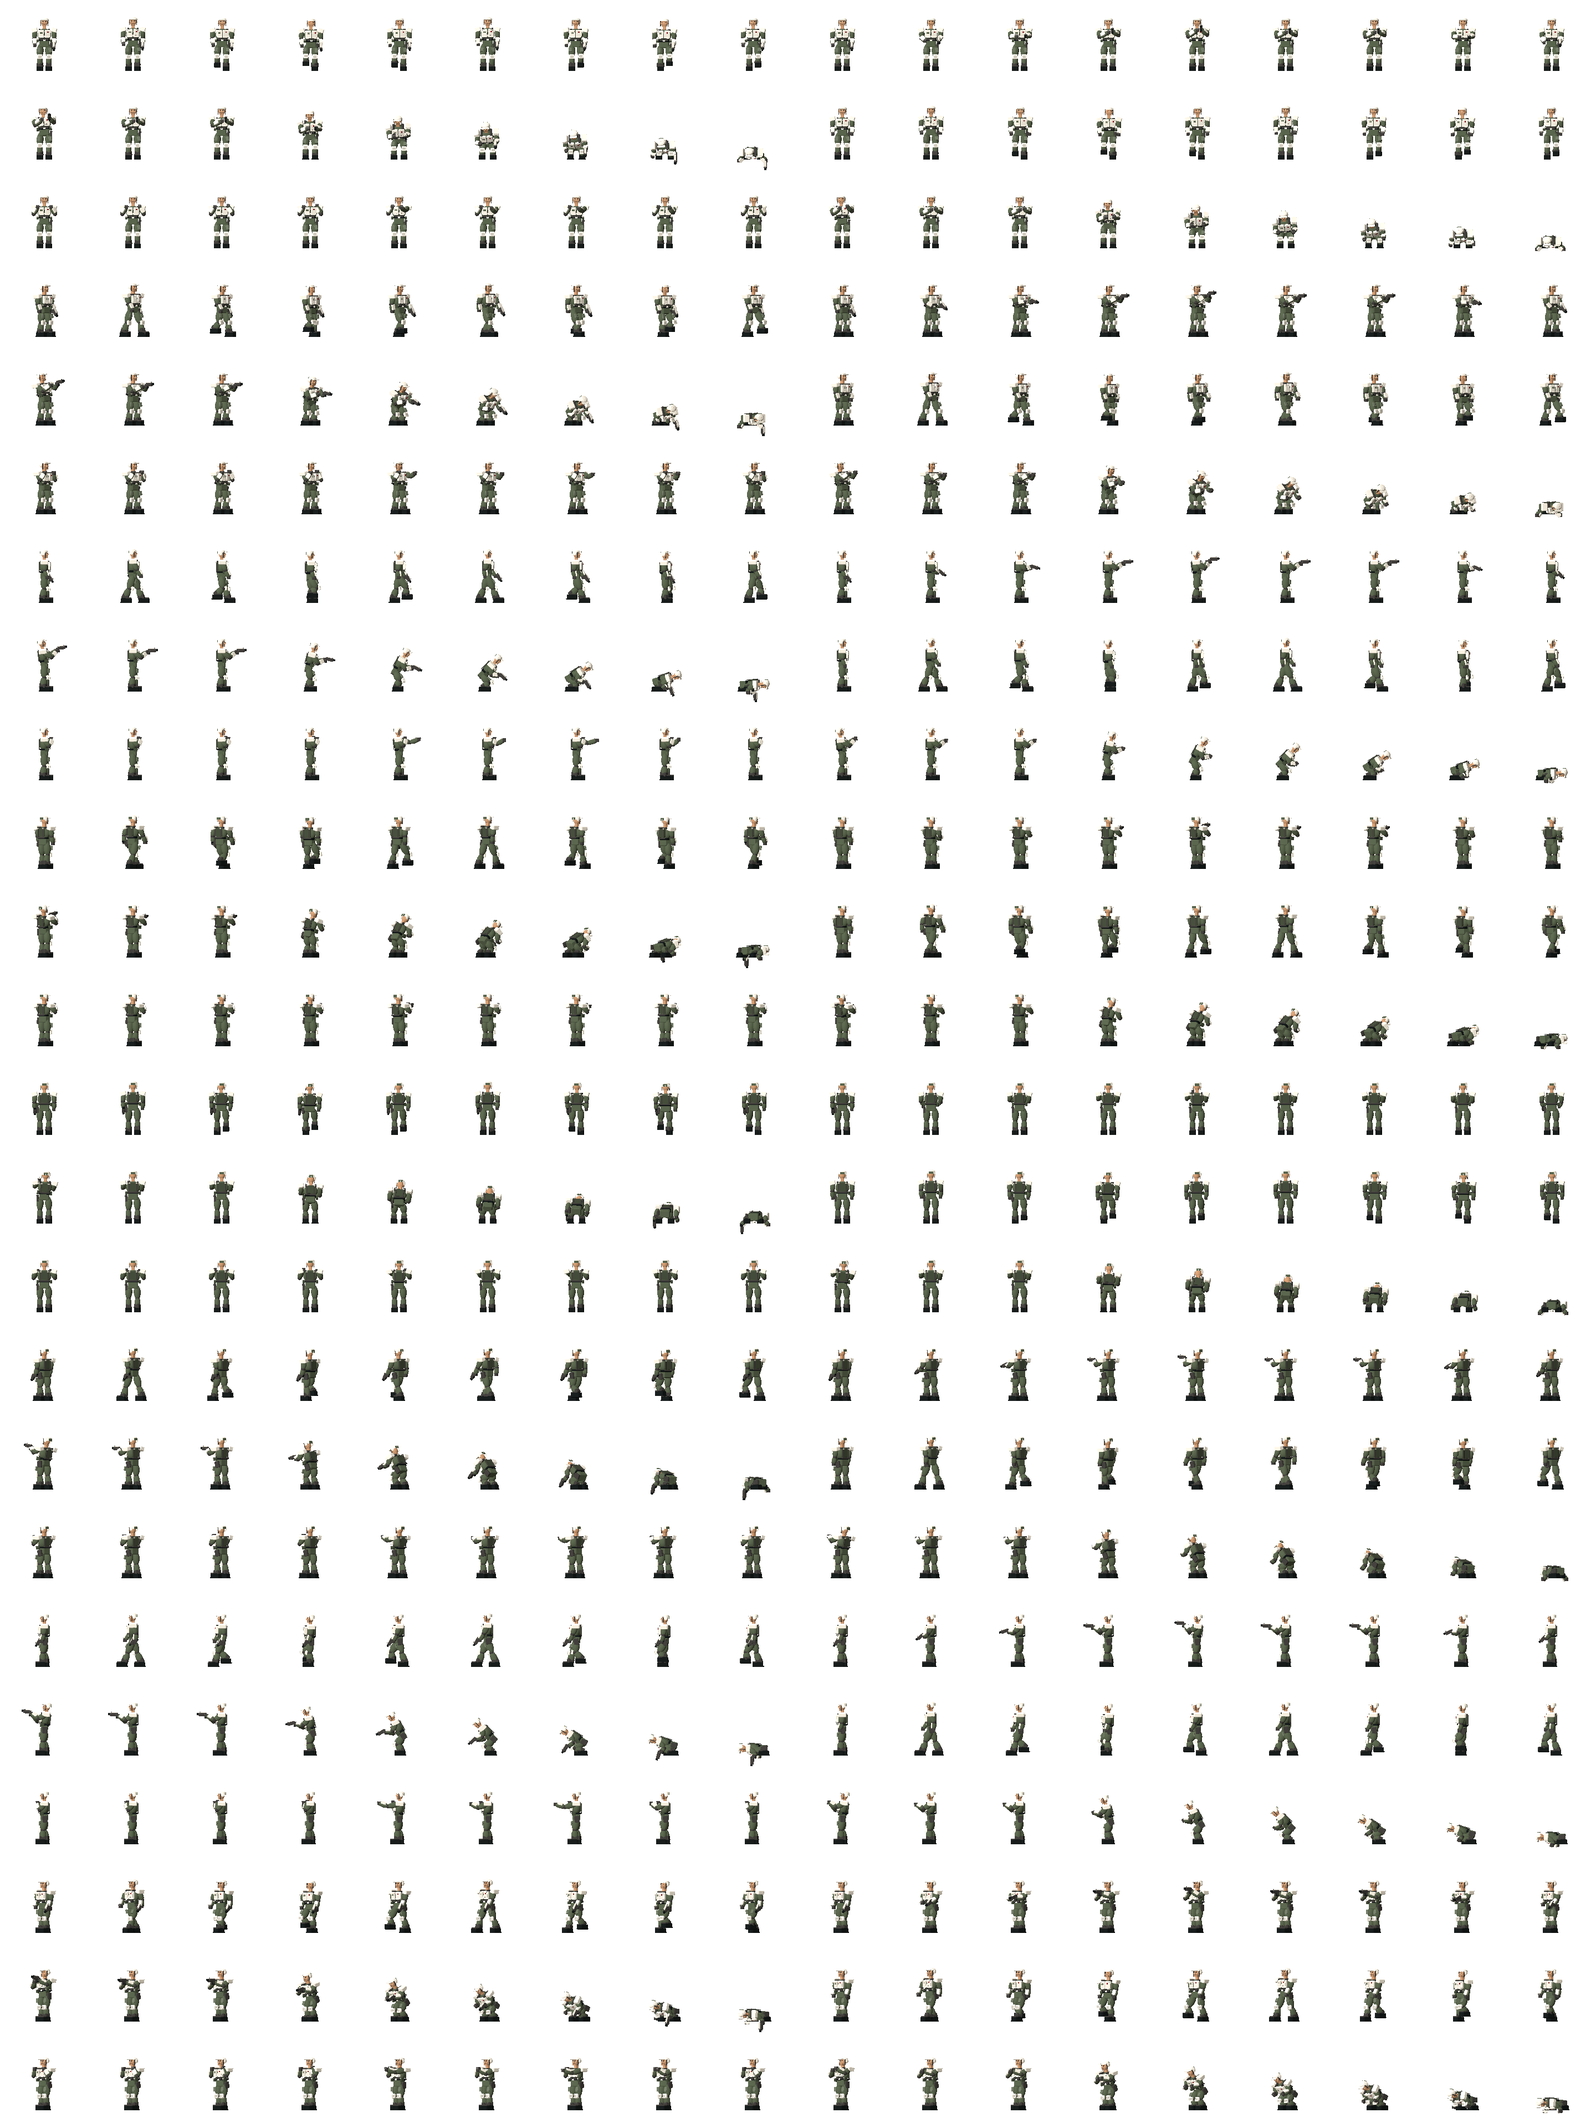
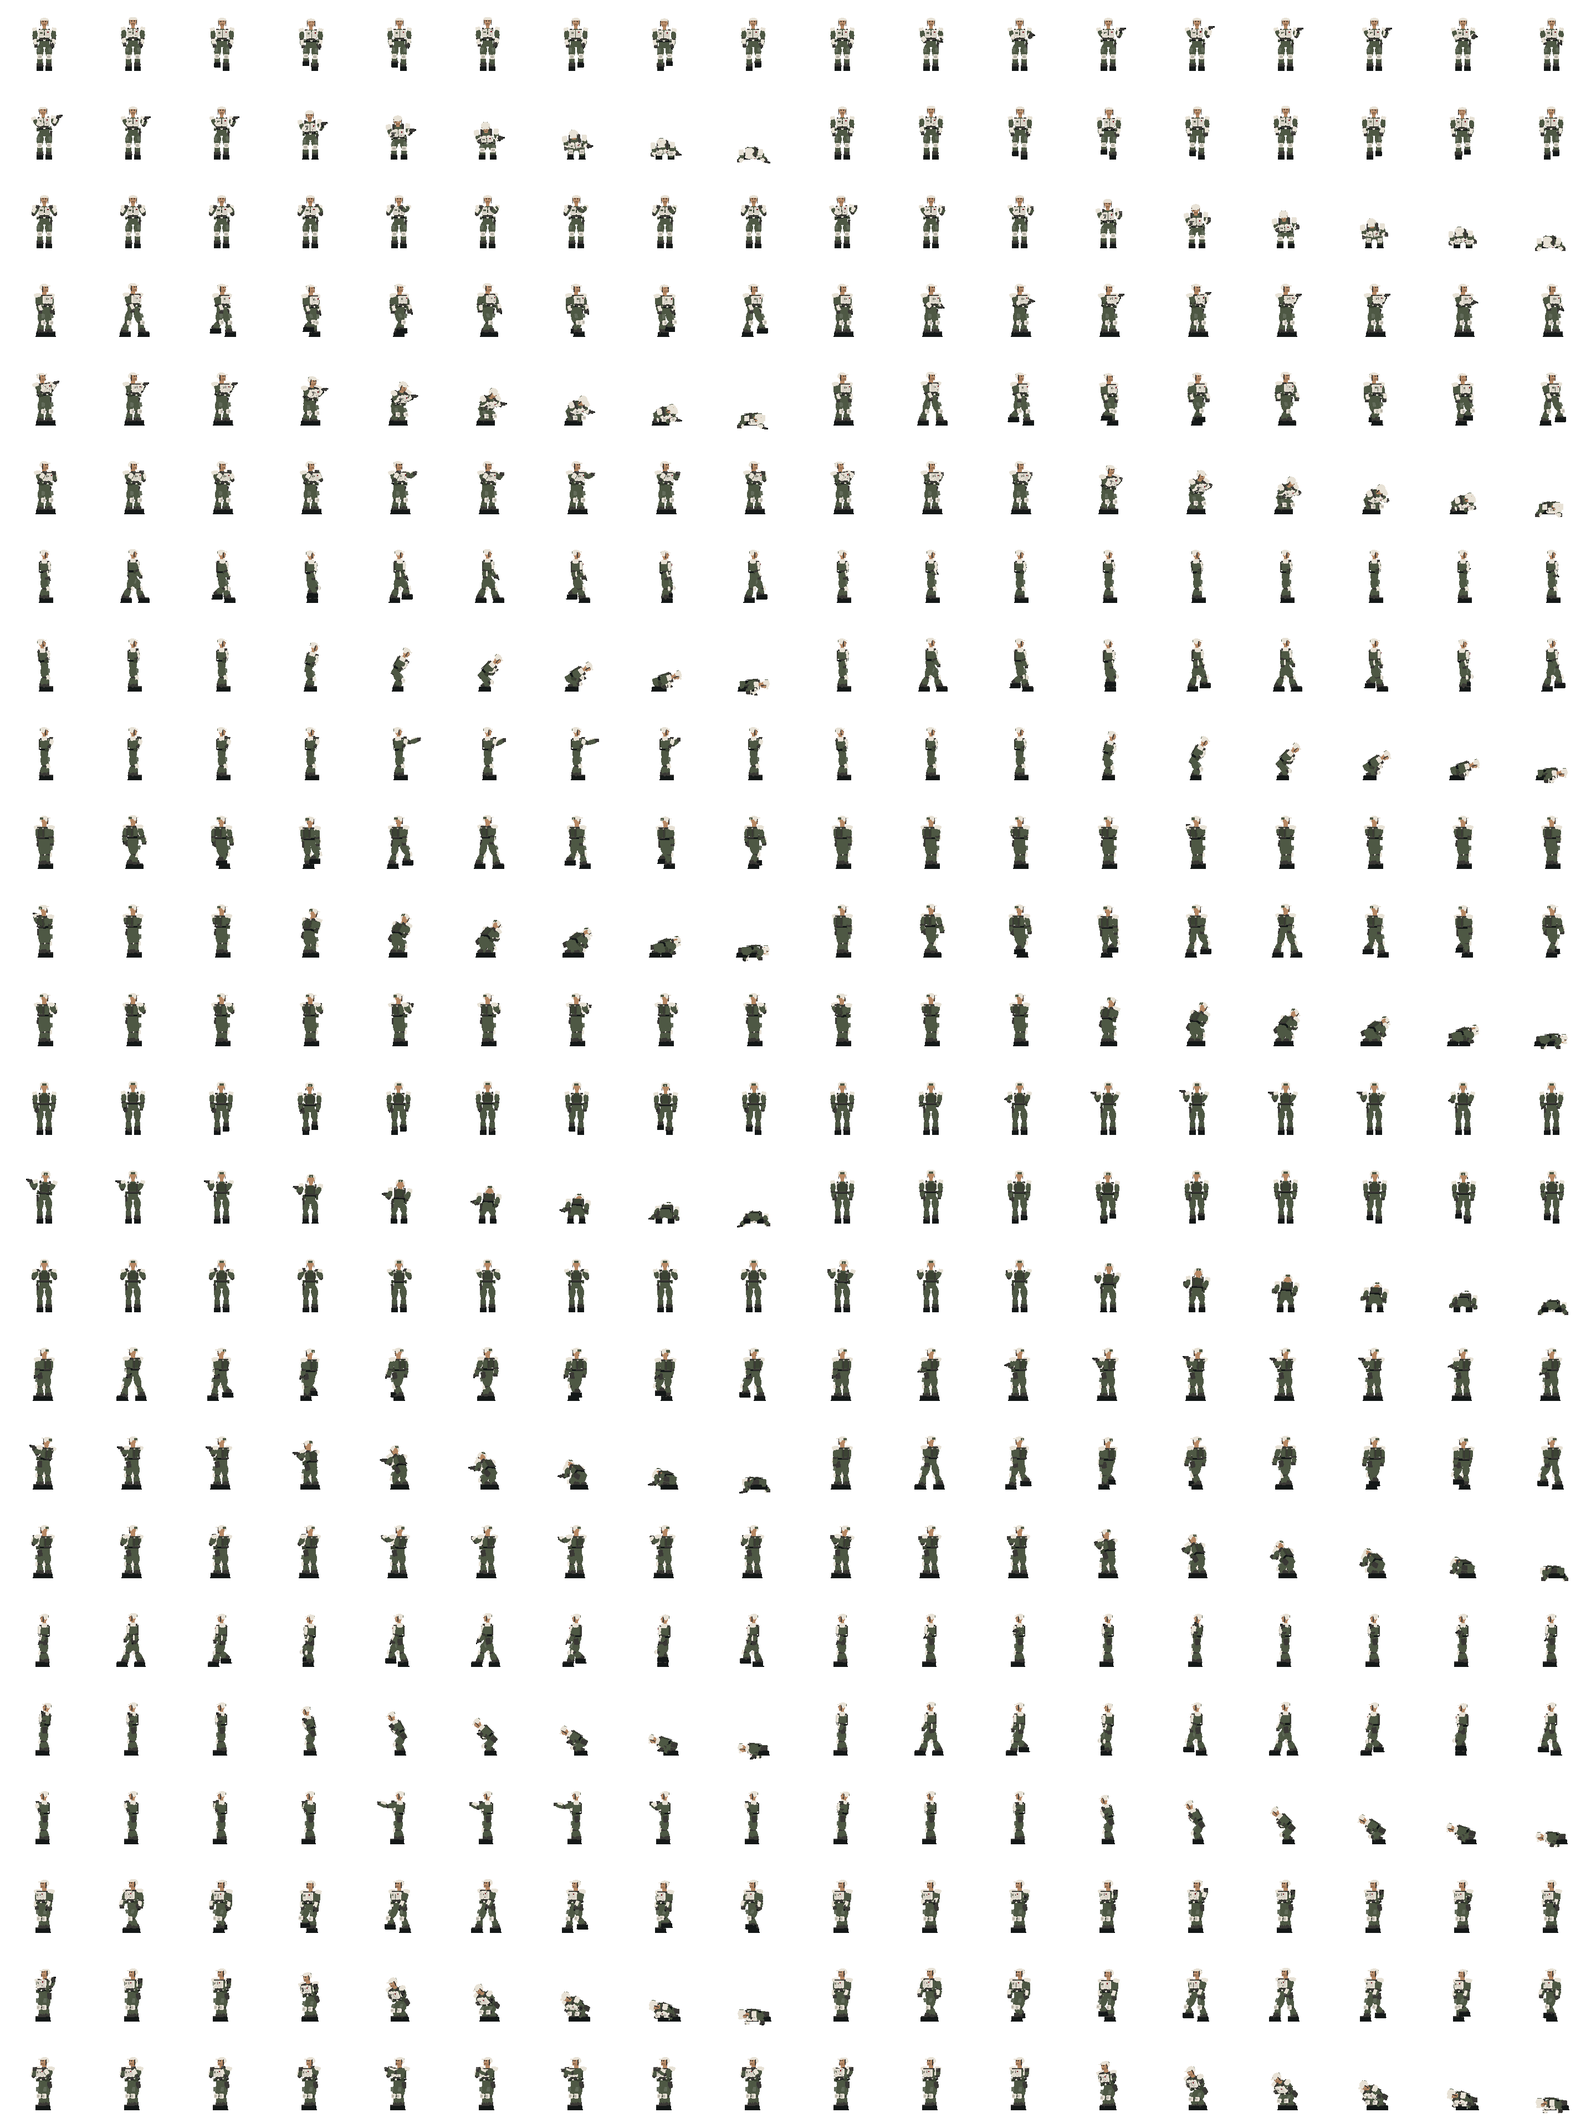
feat: separate the clerk and sweeper outlines
The Sweeper is the wide bot with the level rifle. The Clerk is the narrower human, and aiming clears the pistol past the shoulder. The atlases are unshaded local rigs. No paid sheet was generated.

Changed region(s): [[0.3438, 0.0625, 0.375, 0.0938]]

diff --git a/docs/ROADMAP.md b/docs/ROADMAP.md
@@ -203,13 +203,13 @@ The numbered list that used to sit here is historical. It put the campaign found
 
 Story between missions is a full-screen pixel text page, the same family as the M01 opening. Optional spoken clips for those pages come through `tools/audiogen` only after the wording is frozen. Higgsfield video, including Seedance 2.5 character cutscenes, waits until the playable campaign is built. A movie spent while the missions are still moving would be thrown away. [`plans/campaign-scenes.md`](plans/campaign-scenes.md) holds that gate.
 
-Admission sits beside the mission rungs and does not close the M01 quality gate. v0.35.0 through v0.39.0 shipped frame caps, per-address caps, the inbound budget, `GET /status`, the app match line, join tickets, and a ten-second pawn resume. v0.40.0 lets the mission card leave after the introduction. v0.41.0 is the player-facing gun names. v0.42.0 is weapon cycling and four README stills. Next on the server seam is a measured spectator fan-out before any higher connection cap. The next mission rung is still two readable enemies. Rungs 1 and 2, the routes and the building explaining itself, are done.
+Admission sits beside the mission rungs and does not close the M01 quality gate. v0.35.0 through v0.39.0 shipped frame caps, per-address caps, the inbound budget, `GET /status`, the app match line, join tickets, and a ten-second pawn resume. v0.40.0 lets the mission card leave after the introduction. v0.41.0 is the player-facing gun names. v0.42.0 is weapon cycling and four README stills. The Clerk and the Sweeper no longer share one outline: the bot is wider, and the clerk's aim clears the shoulder while the sweeper's rifle stays inside its pauldrons. Next on the server seam is a measured spectator fan-out before any higher connection cap. The next mission rung is an optional secret, then a fresh-player review. Rungs 1 through 3 are done. Paid enemy sheets were not bought.
 
 **1. Make M01's two routes a real choice, and prove a sloppy clear.** This is first because the records wing, the lift, and the three continues already exist. The bypass is its own encounter: reception's region does not wake it, and its ammo is not standing on the sentry. Both seeded routes still depart. A seeded bypass clear also departs after one Flechette magazine is fired into the bypass ceiling, without claiming the file-stack supplies, and without walking the west side of sorting. The east route now leaves all four file-stack guards alive. `files_a_return` closes the shot from the records approach, around (-18, 10.7), through the stacks doorway. The reception counter screen, the bypass lip, and a narrow stacks screen keep sorting and the bypass from being cleared early, without moving `stacks_sweeper` and without sealing `stacks_cross_aisle`. Seed 67, human control, `east_bypass_departs_with_all_stack_guards_alive`: 1639 ticks, 80 hp, 0 armor, 16 defeats, 101 shots. This seeded sightline debt is closed. Secrets, a new weapon, and disk saves do not belong in this rung. The next rung is the building explaining itself.
 
 **2. Let the building explain itself.** The records deck now shows the custody lift before the records wing. The reserved opening (x=-5 to -1, z=12 to 13) is no longer filled: `office_front_sealed` is `office_front_sill`, y=3 to y=5, and the header still starts at y=6.5. `records_balcony_sees_the_lift_sign_but_not_the_transfer_guards` stands at (-4, 3, 9), on that deck between the public stair and reception, and sees the lift sign. A half-metre sweep of standing deck positions does not see `transfer_clerk`, `transfer_sweeper_west`, or `transfer_sweeper_east` at 0.2, half height, or full height. The walk from `records_balcony` to that stand stays on the deck, and the walk on to reception does not enter the transfer office. `m01_routes_use_ordinary_actions_through_the_live_session` passes. Seed 67, human control, `east_bypass_departs_with_all_stack_guards_alive` is unchanged: 1639 ticks, 80 hp, 0 armor, 16 defeats, 101 shots. `m01_main_and_maintenance_approaches_clear_with_discovered_equipment` still departs for human and agent control. Public stairs: 1765 ticks, 100 hp, 19 defeats, 92 shots. Maintenance: 1833 ticks, 100 hp, 20 defeats, 117 shots. `MISSION_DEPARTED` now states the correction ward and that this mission ends here. It no longer calls the result a prototype. The match menu says leaving abandons the run, and that continues are not refilled, only when the boot mode is the owned local campaign. Arena and joined matches keep "LIVE MATCH. FIND COVER FIRST." `test_mission.gd` and `test_frontend.gd` passed headless on Godot 4.7.2. Reception stays bone enamel on green records tile. The file stacks keep that tile and use service-steel walls. Sorting stands on concrete. Dispatch stands on service steel. The lift face stays the lift panel. These are registered surfaces only. A local tour on 2026-09-22 (`client/qa/m01-rooms.json`, frames under `.agents/qa/m01-rooms/`, not published) shows the balcony opening, bone reception on green tile, dark steel stacks on that same tile, grey sorting concrete, and a dark dispatch floor. Sorting and dispatch still share the bone wall. That inspection is not a finished art pass. Running from the Godot executable still shows the engine icon in the Windows taskbar.
 
-**3. Two readable enemies, before any new paid art.** Recall Notice already uses the facility fill in `arena_sky.gd`, checked by `client/scripts/test_arena_sky.gd`. An unknown map name still falls through to the scrapyard. Clerk and Sweeper already have a full local pose set, and at combat distance they still share one outline. Rebake those two rigs unshaded until a grayscale attack-tell sheet separates them. The one paid generation worth doing after those stills exist is a single albedo Sweeper sheet locked to that silhouette. Tile batches stay forbidden until a local seam check exists. The uncertain Clerk reservation is not replaced by a second purchase. M01 can be proven without a paid scene.
+**3. Two readable enemies, before any new paid art.** Done as a local rebake, not a purchase. The atlases are unshaded. At rest the Sweeper is wider than the Clerk. While aiming, the Clerk's pistol clears the shoulder and the Sweeper's rifle stays inside the pauldrons. `test_enemy_animation.gd` checks those outlines. The uncertain Clerk reservation was not replaced. A later albedo sheet can lock to this silhouette. It is not required to keep going, and tile batches stay forbidden until a local seam check exists. Recall Notice still uses the facility fill in `arena_sky.gd`. An unknown map name still falls through to the scrapyard.
 
 **4. Optional secrets the route does not need.** After the miss budget passes: one obvious alcove and one maintenance overlook. Neither holds the objective, the ward name, or a required gun. The level plan's Shiv is that alcove, on the existing supply seam, once a pool-less melee grant exists. A moving wall panel waits on the door seam. Finding either secret is not part of the clear in rung 1.
 

diff --git a/docs/plans/README.md b/docs/plans/README.md
@@ -20,7 +20,7 @@ Status words: **planned**, **in flight**, **implemented** (local evidence record
 | [`display-quality.md`](./display-quality.md) | **implemented** ([#202](https://github.com/blisspixel/fragr/pull/202)) | Fullscreen default, real resolution selection and portable graphics presets through the shared settings panel. |
 | [`audio-startup-polish.md`](./audio-startup-polish.md) | **shipped** (#201, v0.32.0) | Balanced default effects and music, preserved saved choices, approved logo in the engine splash. |
 | [`combat-notification-polish.md`](./combat-notification-polish.md) | **shipped** (#201, v0.32.0) | Three independently expiring corner notices, participant-only pickups and clear aiming; inspected live arena and campaign captures. |
-| [`m01-completion.md`](./m01-completion.md) | **in flight** (#195) | Routes, balcony, departure, leave warning, and published room stills shipped through v0.40.0. Next is two readable enemies. Secrets, saves, and a fresh-player review remain. |
+| [`m01-completion.md`](./m01-completion.md) | **in flight** (#195) | Routes through v0.40.0. Clerk and Sweeper silhouettes now separate without a new purchase. Next is an optional secret, then a fresh-player review. |
 | [`difficulty-and-rewards.md`](./difficulty-and-rewards.md) | **in flight** (#197) | New-run campaign difficulty first; persistent achievements and cosmetic rewards follow the save/retry contract. |
 | [`tripoint-spawn-safety.md`](./tripoint-spawn-safety.md) | **shipped** (#193, v0.28.0) | Cover the exposed starting ring, prove all 16 routes and sightlines, and retain measured respawn limitations. |
 | [`m01-opening.md`](./m01-opening.md) | **shipped** (#193, v0.28.0) | Reader-paced recall story, replay and authoritative initial/late party readiness. |

diff --git a/docs/plans/m01-completion.md b/docs/plans/m01-completion.md
@@ -1,7 +1,7 @@
 # Recall Notice: complete mission
 
 Status: in flight, 2026-09-22. [Task #195](https://github.com/blisspixel/fragr/issues/195).
-The active slice is the [full build order](../ROADMAP.md#full-build-order-2026-09-22). Routes, the balcony view of the lift, departure copy, the leave warning, and the published room stills shipped through v0.40.0. The objective card leaves after the introduction. The bypass is its own fight. The east route leaves all four file-stack guards alive. Secrets, disk saves, final art, and the fresh-player review stay open. The next rung is two readable enemies.
+The active slice is the [full build order](../ROADMAP.md#full-build-order-2026-09-22). Routes, the balcony view of the lift, departure copy, the leave warning, and the published room stills shipped through v0.40.0. The objective card leaves after the introduction. The bypass is its own fight. The east route leaves all four file-stack guards alive. The Clerk and Sweeper silhouettes now separate in the local unshaded atlases. Secrets, disk saves, final art, and the fresh-player review stay open. The next rung is an optional secret, then that review.
 Baseline: v0.28.0, `e845236`. Its tree matches the final revision of #193, with all
 five integration jobs passing. The three-enemy prototype is not a full mission.
 Spend: local work first; the uncertain Clerk reference reservation remains held.

diff --git a/client/art/characters/README.md b/client/art/characters/README.md
@@ -11,10 +11,13 @@ that the next bake will replace. The source directory is excluded from exports.
 The bake writes a manifest with source/output hashes. The headless harness rejects
 stale outputs after source or layout changes; a rebake updates the receipt.
 
-The human has an open helmet, visible face and green cloth. The bot has covered
-issued mechanisms, a status slit and battery pack. Shared bone armor, steel,
-green and restrained red seals establish Union manufacture. Neither body type
-establishes moral status. These are not free-agent character designs.
+The human has an open helmet, visible face, green cloth and a pistol that
+clears the shoulder when it aims. The bot has wide pauldrons, a box head, a
+status slit, a battery pack and a rifle that stays inside those shoulders.
+Materials are unshaded so distance reads the shape, not a lighting gradient.
+Shared bone armor, steel, green and restrained red seals establish Union
+manufacture. Neither body type establishes moral status. These are not
+free-agent character designs.
 
 Reviewed [reference candidates](references/README.md) now give the next rig pass
 a shared human/bot design target. They are separate from the provisional baked

diff --git a/docs/ENEMIES.md b/docs/ENEMIES.md
@@ -1,10 +1,13 @@
 # Enemy roster
 
-**Status, 2026-09-20:** Clerk and Sweeper prototype encounters are implemented
+**Status, 2026-09-22:** Clerk and Sweeper prototype encounters are implemented
 through shared simulation bodies, typed campaign identity and directional
-animation. Their art and full-mission tuning remain provisional. Other roles
-below, reactivation and projectiles are proposed. Calibration's NODS and Auditor
-are separate arcade prototypes, not implementations of the proposed roster.
+animation. Their unshaded atlases no longer share one outline: the Sweeper is
+the wide bot with the level rifle, and the Clerk is the narrower human whose
+aim clears the shoulder. Full-mission tuning and a fresh-player review remain
+open. Other roles below, reactivation and projectiles are proposed.
+Calibration's NODS and Auditor are separate arcade prototypes, not
+implementations of the proposed roster.
 
 Players are defined by the weapons they find, not permanent combat classes.
 Start a fresh campaign with fists; [WEAPONS.md](WEAPONS.md) owns the pickup economy.

diff --git a/README.md b/README.md
@@ -6,7 +6,7 @@ fragr is a retro-styled 3D FPS built toward an authored campaign and multiplayer
 
 It is the 1993 LAN-party feeling rebuilt for 2026: a Rust authoritative server, a Godot client that only presents, and an MCP adapter so any agent can observe and act like a player.
 
-The current release is [v0.42.0](https://github.com/blisspixel/fragr/releases/tag/v0.42.0). Shipped tags are listed in [CHANGELOG.md](CHANGELOG.md). What is still open is [docs/ROADMAP.md](docs/ROADMAP.md).
+The current release is [v0.43.0](https://github.com/blisspixel/fragr/releases/tag/v0.43.0). Shipped tags are listed in [CHANGELOG.md](CHANGELOG.md). What is still open is [docs/ROADMAP.md](docs/ROADMAP.md).
 
 ## What runs today
 

diff --git a/CHANGELOG.md b/CHANGELOG.md
@@ -4,6 +4,13 @@ Shipped tags, newest first. A line here is on `main`. Planned work stays in
 [docs/ROADMAP.md](docs/ROADMAP.md). Older tags are on the
 [releases page](https://github.com/blisspixel/fragr/releases).
 
+## v0.43.0 (2026-09-22)
+
+The Clerk and the Sweeper no longer share one outline. The Sweeper is the wide
+bot with the level rifle. The Clerk is the narrower human, and aiming clears
+the pistol past the shoulder. The atlases are unshaded local rigs. No new
+paid sheet was generated.
+
 ## v0.42.0 (2026-09-22)
 
 The mouse wheel, the bracket keys, and 1 through 5 walk the guns you are
